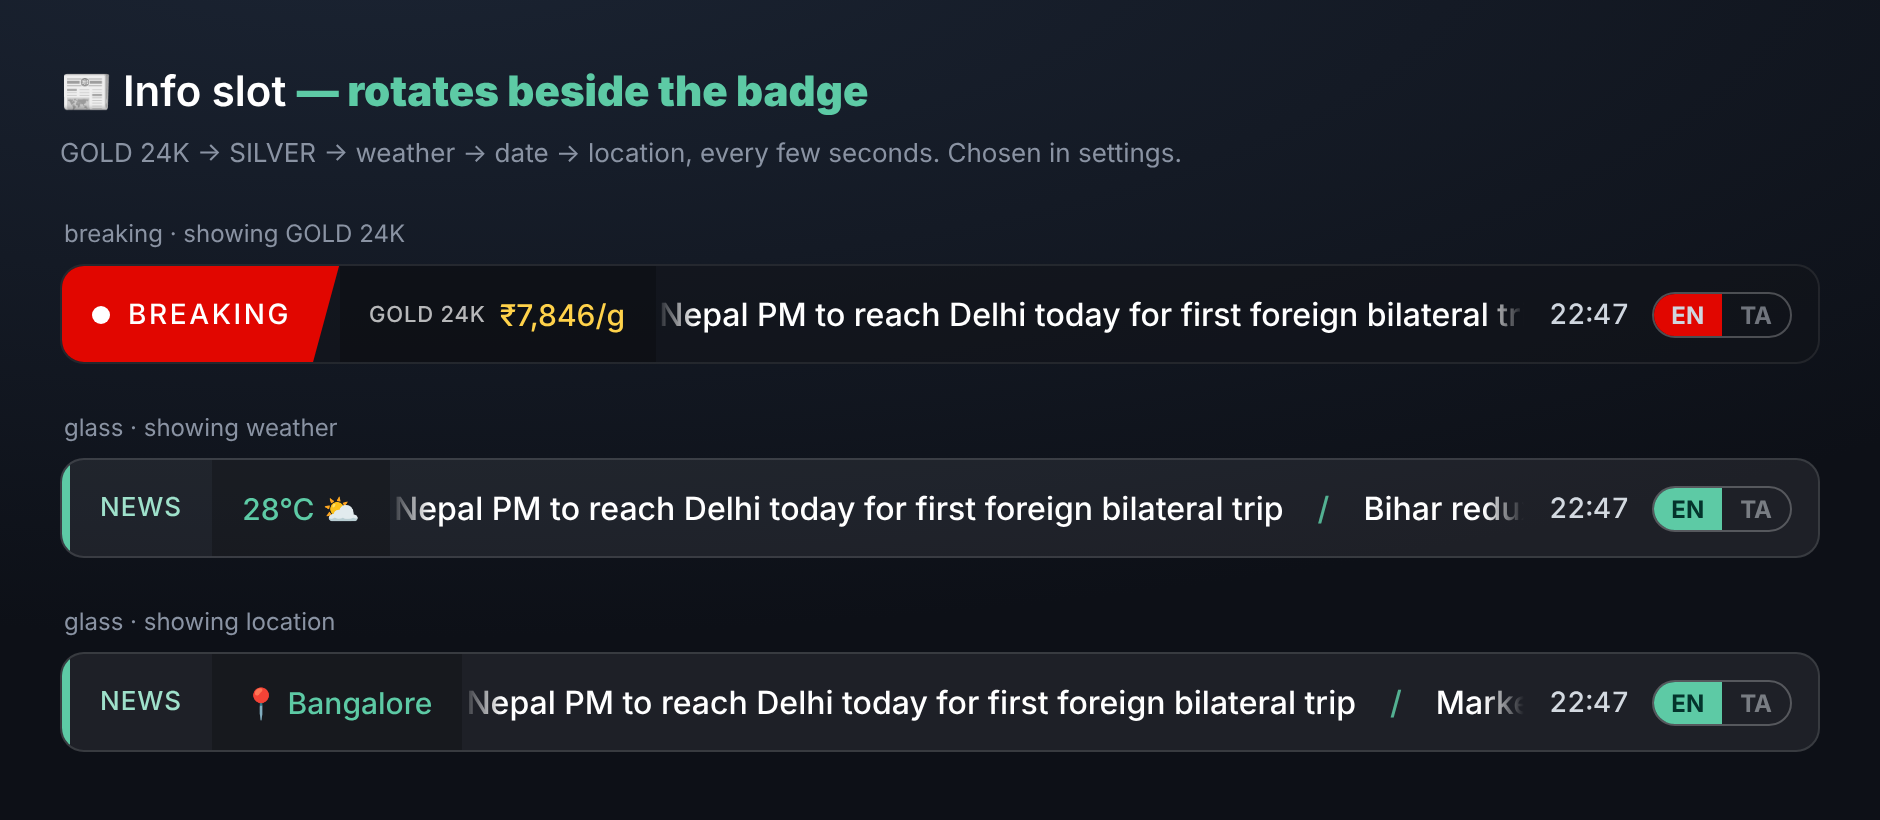
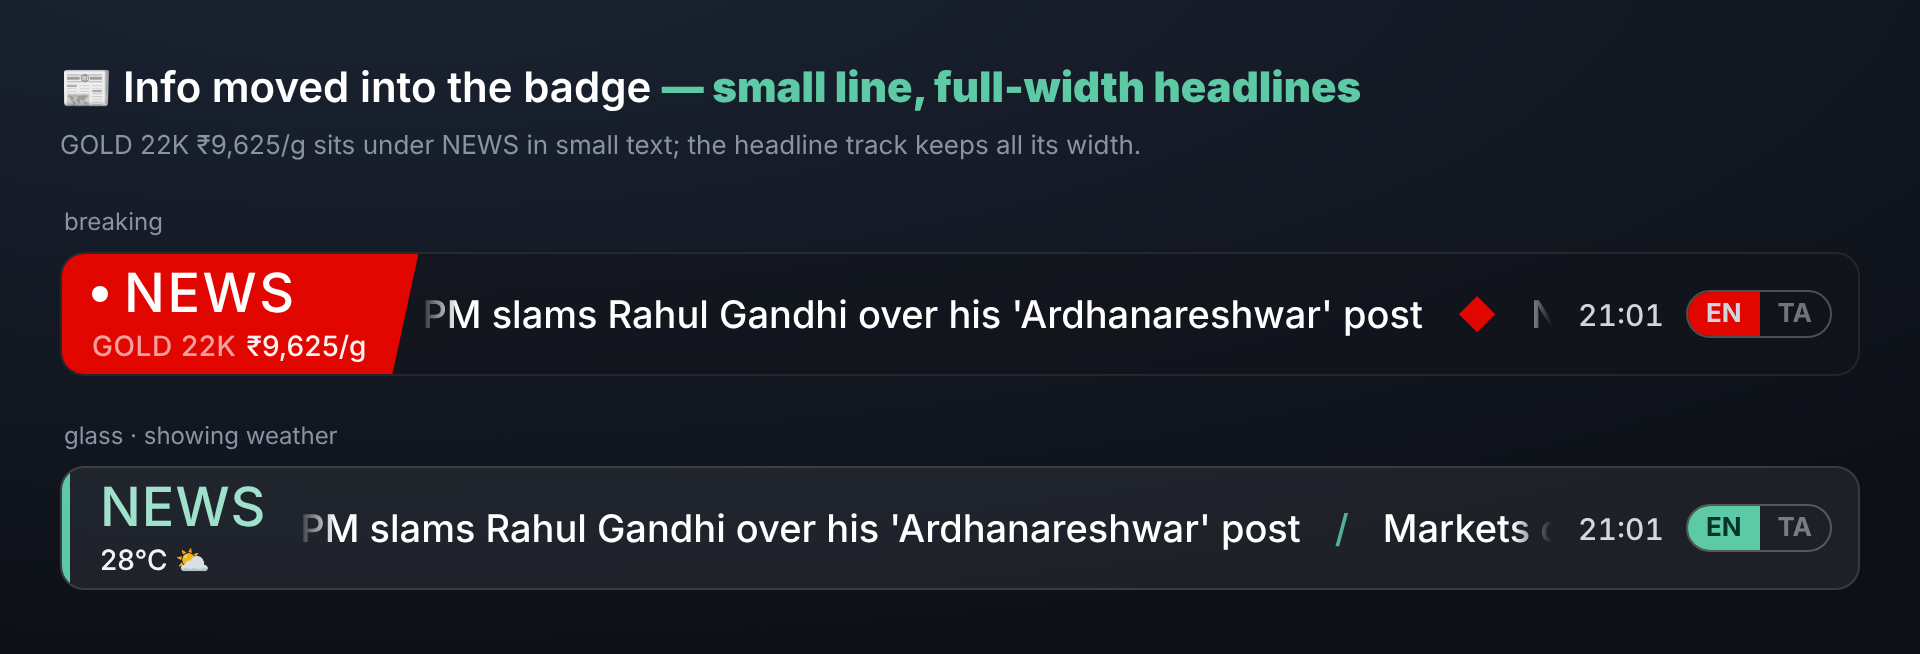
v2.3: info rides as a small line inside the badge (frees headline width)
- new info_position option: "badge" (default, small line under the label) or
  "inline" (the previous standalone chip)
- badge becomes a two-row block; info text small, readable on every style
- README + preview updated

Claude-Session: https://claude.ai/code/session_01EPn8JK15td6Hefeq9pGtig

Changed region(s): [[0.0309, 0.2752, 0.9564, 0.9174], [0.0309, 0.0917, 0.7096, 0.2446]]

diff --git a/news-ticker-card.js b/news-ticker-card.js
@@ -3,7 +3,7 @@
  *  Info chips (gold/silver/weather/date/location) from /local/info.json
  *  v2.2 — 4 styles, EN/TA toggle, live clock, rotating info slot, visual editor.
  */
-const NTC_VERSION = "2.2";
+const NTC_VERSION = "2.3";
 const NTC_STYLES = ["breaking", "glass", "live", "split"];
 const NTC_DEFAULT_LABEL = { breaking: "BREAKING", glass: "NEWS", live: "LIVE", split: "TOP NEWS" };
 const NTC_INFO_ALL = ["gold24", "gold22", "silver", "weather", "date", "location"];
@@ -36,6 +36,7 @@ class NewsTickerCard extends HTMLElement {
       show_info: false,
       info_items: ["gold24", "silver", "weather", "date"],
       info_rotate_seconds: 6,
+      info_position: "badge",   // "badge" (small line under the label) | "inline" (chip)
       location: "",
     }, config);
     this._config.style = style;
@@ -189,6 +190,8 @@ class NewsTickerCard extends HTMLElement {
     const c = this._config, root = this.shadowRoot;
     const accent = this._accent();
     const fs = Number(c.font_size) || 18;
+    const ifs = Math.max(10, Math.round(fs - 28));     // small info text
+    const inBadge = c.info_position !== "inline";
     root.innerHTML = `
       <style>
         :host { display: block; }
@@ -196,13 +199,20 @@ class NewsTickerCard extends HTMLElement {
           height: calc(${fs}px + 24px); border-radius: 12px; overflow: hidden; color: #fff;
           font-family: var(--ntc-font, system-ui, sans-serif); }
         .rail { display: none; width: 4px; background: var(--accent); }
-        .badge { display: ${c.show_label ? "flex" : "none"}; align-items: center; gap: 8px; white-space: nowrap; font-weight: 500; }
+        .badge { display: ${c.show_label ? "flex" : "none"}; flex-direction: column; justify-content: center;
+          white-space: nowrap; font-weight: 500; line-height: 1.1; }
+        .brow { display: flex; align-items: center; gap: 8px; }
         .badge .dot { width: 8px; height: 8px; border-radius: 50%; background: #fff; }
         #label { font-size: ${Math.max(12, fs - 3)}px; }
+        /* small info line inside the badge */
+        .binfo { display: none; margin-top: 2px; white-space: nowrap; transition: opacity .18s ease; }
+        .binfo .ilabel { font-size: ${ifs}px; font-weight: 500; opacity: .62; letter-spacing: .3px; margin-right: 5px; }
+        .binfo .ival { font-size: ${ifs}px; font-weight: 500; color: inherit; opacity: .95; }
+        /* standalone chip (info_position: inline) */
         .info { display: none; align-items: center; gap: 7px; padding: 0 14px; white-space: nowrap;
           background: rgba(0,0,0,.22); transition: opacity .18s ease; }
-        .ilabel { font-size: ${Math.max(10, fs - 7)}px; font-weight: 500; opacity: .7; letter-spacing: .4px; }
-        .ival { font-size: ${Math.max(12, fs - 3)}px; font-weight: 500; color: var(--accent); }
+        .info .ilabel { font-size: ${Math.max(10, fs - 7)}px; font-weight: 500; opacity: .7; letter-spacing: .4px; }
+        .info .ival { font-size: ${Math.max(12, fs - 3)}px; font-weight: 500; color: var(--accent); }
         .tk { flex: 1; overflow: hidden; position: relative; display: flex; align-items: center;
           -webkit-mask-image: linear-gradient(90deg,transparent,#000 20px,#000 calc(100% - 20px),transparent);
           mask-image: linear-gradient(90deg,transparent,#000 20px,#000 calc(100% - 20px),transparent); }
@@ -250,8 +260,11 @@ class NewsTickerCard extends HTMLElement {
       </style>
       <div class="bar" data-style="${c.style}">
         <div class="rail"></div>
-        <div class="badge"><span class="dot"></span><span id="label"></span></div>
-        <div class="info" id="info"></div>
+        <div class="badge">
+          <span class="brow"><span class="dot"></span><span id="label"></span></span>
+          ${inBadge ? '<span class="binfo" id="info"></span>' : ""}
+        </div>
+        ${inBadge ? "" : '<div class="info" id="info"></div>'}
         <div class="tk"><div class="trk" id="track"></div></div>
         <div class="side">
           <div id="clock"></div>
@@ -389,6 +402,6 @@ customElements.define("news-ticker-card-editor", NewsTickerCardEditor);
 
 window.customCards = window.customCards || [];
 window.customCards.push({ type: "news-ticker-card", name: "News Ticker Card",
-  description: "Broadcast-style scrolling news ticker (EN/Tamil), 4 styles, live clock, info chips.", preview: true });
+  description: "Broadcast-style scrolling news ticker (EN/Tamil), 4 styles, live clock, info line.", preview: true });
 console.info("%c NEWS-TICKER-CARD %c v" + NTC_VERSION + " ",
   "background:#e10600;color:#fff;font-weight:700;border-radius:4px 0 0 4px;", "background:#333;color:#fff;border-radius:0 4px 4px 0;");

diff --git a/README.md b/README.md
@@ -1,6 +1,6 @@
 # 📰 News Ticker Card
 
-![version](https://img.shields.io/badge/version-2.2-blue) ![HACS](https://img.shields.io/badge/HACS-Custom-orange) ![Home Assistant](https://img.shields.io/badge/Home%20Assistant-2024.1+-green) ![license](https://img.shields.io/badge/license-MIT-lightgrey)
+![version](https://img.shields.io/badge/version-2.3-blue) ![HACS](https://img.shields.io/badge/HACS-Custom-orange) ![Home Assistant](https://img.shields.io/badge/Home%20Assistant-2024.1+-green) ![license](https://img.shields.io/badge/license-MIT-lightgrey)
 
 A modern, broadcast-style scrolling **news ticker** card for Home Assistant dashboards. Reads headlines from a simple local JSON file, scrolls them smoothly like a TV news channel, and ships with **4 selectable styles**, a **live clock**, and a **two-language toggle** (e.g. English / Tamil) — all configurable from a built-in visual editor.
 
@@ -140,6 +140,7 @@ info_items:
 | `show_info`        | boolean | `false`              | Show the rotating info chip beside the badge |
 | `info_items`       | list    | `[gold24, silver, weather, date]` | Which info items to rotate. Any of: `gold24`, `gold22`, `silver`, `weather`, `date`, `location` |
 | `info_rotate_seconds` | number | `6`               | Seconds each info item is shown before rotating |
+| `info_position`    | string  | `badge`              | `badge` = small line under the label; `inline` = separate chip |
 | `info_url`         | string  | `/local/info.json`   | Path to the info JSON written by the generator |
 | `location`         | string  | `""`                 | Place label for the `location` chip; blank falls back to `info.json`'s location |
 
